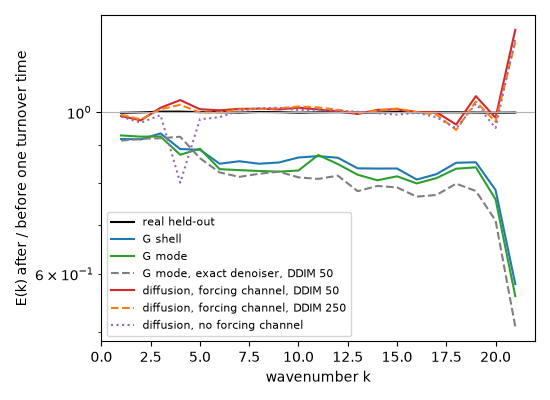
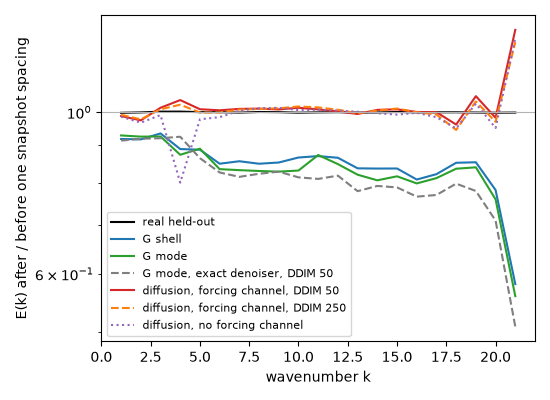
Report the spin-up energy and the span of the dt check

Changed region(s): [[0.0309, 0.09, 0.0618, 0.81]]

diff --git a/scripts/report.py b/scripts/report.py
@@ -82,7 +82,14 @@ def solver_table(info: dict) -> str:
         ],
         [
             "energy, first and second half",
-            f"{g(s['first_half_mean'])}, {g(s['second_half_mean'])}",
+            f"{g(s['first_half_mean'])}, {g(s['second_half_mean'])} "
+            f"(relative difference {g(s['relative_drift'])})",
+        ],
+        [
+            "energy of the 20-unit windows before the snapshots, over the mean",
+            ", ".join(
+                g(w / s["energy_mean"]) for w in s["spin_up_energy_by_20_time_units"]
+            ),
         ],
         [
             "forced-mode coherence of the data",
@@ -100,7 +107,7 @@ def solver_table(info: dict) -> str:
         ts = checks["time_step"]
         rows.append(
             [
-                "dt against dt / 2 after one turnover time",
+                f"dt against dt / 2 after {g(ts['evolution_time'])} time units",
                 f"relative L2 {g(ts['max_relative_l2_difference'])}, "
                 f"E(k) {g(ts['max_relative_difference_of_E_k'])}",
             ]
@@ -389,9 +396,9 @@ def networks_table() -> str | None:
         "S4 mean abs log ratio",
         "flatness S4 / S2^2 at r = 1",
         "forced-mode coherence",
-        "E(k) change after one turnover time",
-        "enstrophy change after one turnover time",
-        "energy change after one turnover time",
+        "E(k) change after one snapshot spacing",
+        "enstrophy change after one snapshot spacing",
+        "energy change after one snapshot spacing",
         "reconstruction L2, 1% of the points",
         "reconstruction L2, 2% of the points",
         "reconstruction L2, 5% of the points",

diff --git a/tests/test_report.py b/tests/test_report.py
@@ -133,3 +133,34 @@ def test_relaxation_score_over_shells_1_to_20_keeps_the_ranking(report):
     gaussians = (score["g_shell"], score["g_mode"], score["g_mode_ddim"])
     assert max(networks) < min(gaussians)
     assert score["diffusion"] < score["diffusion_plain"]
+
+
+def solver_info():
+    return json.loads((ROOT / "results" / "solver.json").read_text())
+
+
+def test_spin_up_windows_are_reported_against_the_snapshot_mean(report):
+    s = solver_info()["stationarity"]
+    ratio = [w / s["energy_mean"] for w in s["spin_up_energy_by_20_time_units"]]
+    assert len(ratio) == 6
+    assert all(0.03 < 1 - r < 0.04 for r in ratio[:2])
+    assert all(0.03 < r - 1 < 0.06 for r in ratio[4:])
+    assert "| 0.965, 0.962, 0.994, 1.01, 1.05, 1.04 |" in report.solver_table(
+        solver_info()
+    )
+
+
+def test_time_step_check_names_its_own_time_span(report):
+    info = solver_info()
+    row = next(
+        line
+        for line in report.solver_table(info).splitlines()
+        if line.startswith("| dt against")
+    )
+    assert row.startswith("| dt against dt / 2 after 0.505 time units |")
+    spans = (
+        info["turnover"]["eddy_turnover_time"],
+        info["turnover"]["snapshot_time"],
+        info["checks"]["time_step"]["evolution_time"],
+    )
+    assert len({round(span, 3) for span in spans}) == 3

diff --git a/scripts/figures.py b/scripts/figures.py
@@ -150,7 +150,7 @@ def consistency_figure(cons):
         ax.semilogy(k, ratio[:KMAX], color=color, ls=ls, label=label)
     ax.axhline(1.0, color="0.7", lw=0.8)
     ax.set_xlabel("wavenumber k")
-    ax.set_ylabel("E(k) after / before one turnover time")
+    ax.set_ylabel("E(k) after / before one snapshot spacing")
     ax.legend(fontsize=8)
     fig.tight_layout()
     fig.savefig(RESULTS / "consistency.png", dpi=100)

diff --git a/README.md b/README.md
@@ -25,9 +25,9 @@ spectrum of the training set. A second experiment reconstructs a field from its 
   only for the level used.
 - **Where it does not, the diffusion model is closer to the real fields.** The flatness of
   vorticity increments at the smallest separation is 4.1 for both networks, 4.46 for held-out
-  fields and 3.0 to 3.1 for the Gaussian fields. After one eddy turnover time in the solver the
-  spectrum of the Gaussian fields changes by 0.17 to 0.22 (mean abs log ratio) against 0.026 and
-  0.036 for the networks and 0.001 for real fields (over shells 1 to 20: 0.15 to 0.20 against
+  fields and 3.0 to 3.1 for the Gaussian fields. After one snapshot spacing (0.495) in the solver
+  the spectrum of the Gaussian fields changes by 0.17 to 0.22 (mean abs log ratio) against 0.026
+  and 0.036 for the networks and 0.001 for real fields (over shells 1 to 20: 0.15 to 0.20 against
   0.0145 and 0.0263). On the validation fields, which also select the checkpoint, the network
   predicts the noise with an error of 0.071 and the exact Gaussian denoiser with 0.120 (the
   noise error on the test fields was not computed).
@@ -50,12 +50,12 @@ Every table below is printed by `scripts/report.py` from the files in `results/`
 `scripts/figures.py` draws the figures from the same files. The numbers in the text are read
 from these tables and figures (the ratios of spectra from `results/diagnostics.json`). The
 reference set (held-out, or test) is 500 fields from two solver trajectories that were not used
-for training. A third trajectory (validation, 250 fields) selects the checkpoint, the DDIM start
-and the replacement variant. The diagnostics use 500 generated fields per row and one sampler
-seed, the reconstruction uses 100 test fields and three sampler seeds. "Forcing channel" is the
-network with the extra input channel and "no forcing channel" the one without; both have 3.57
-million parameters and were trained with the same settings. Rows and tables of the channel
-network are its seed 0 unless a column says seed 1.
+for training. A third trajectory (validation, 250 fields) selects the checkpoint and the
+replacement variant and is the set on which the DDIM starts are compared. The diagnostics use
+500 generated fields per row and one sampler seed, the reconstruction uses 100 test fields and
+three sampler seeds. "Forcing channel" is the network with the extra input channel and "no
+forcing channel" the one without; both have 3.57 million parameters and were trained with the
+same settings. Rows and tables of the channel network are its seed 0 unless a column says seed 1.
 
 ### The solver and its data
 
@@ -69,17 +69,26 @@ network are its seed 0 unless a column says seed 1.
 | eddy turnover time | 0.497 |
 | snapshot spacing | 0.495 (99 steps) |
 | mean energy | 0.154 (std 0.0203) |
-| energy, first and second half | 0.154, 0.154 |
+| energy, first and second half | 0.154, 0.154 (relative difference 0.00282) |
+| energy of the 20-unit windows before the snapshots, over the mean | 0.965, 0.962, 0.994, 1.01, 1.05, 1.04 |
 | forced-mode coherence of the data | 0.967 |
 | correlation of snapshots, lag 1 and 5 | 0.94, 0.551 |
-| dt against dt / 2 after one turnover time | relative L2 1.12e-08, E(k) 5.22e-08 |
+| dt against dt / 2 after 0.505 time units | relative L2 1.12e-08, E(k) 5.22e-08 |
 | E(k) of the data over E(k) of a 128 x 128 run | k=5: 1, k=10: 1.1, k=14: 1.2, k=18: 1.4, k=21: 3.7 |
 
-The time step is small enough (a half step changes the fields after one turnover time by
-1e-8). The 64 x 64 grid is coarse: against a run on 128 x 128 points the mean spectrum of the
-data is within 20 percent at k = 5, 10 and 14 but 1.4 times larger at k = 18 and 3.7 times
-larger at k = 21, so the highest shells of the data are not converged. Consecutive snapshots
-are strongly correlated.
+The time step is small enough (a half step changes the fields after 0.505 time units, one over
+the rms vorticity of the training set, by 1e-8). The 64 x 64 grid is coarse: against a run on
+128 x 128 points the mean spectrum of the data is within 20 percent at k = 5, 10 and 14 but 1.4
+times larger at k = 18 and 3.7 times larger at k = 21, so the highest shells of the data are not
+converged. Consecutive snapshots are strongly correlated.
+
+The energy of the last two 20-unit windows before the snapshots (the last one is the window
+where the turnover time is measured) is about 5 and 4 percent above the mean energy of the
+snapshots, and that of the first two windows about 3.5 and 3.8 percent below it. The windows
+average all seven trajectories and the snapshot mean the four training ones, and the spread of a
+window mean was not computed. A slow change of the energy during the 100 time units of spin-up
+is therefore neither shown nor excluded; the two halves of the snapshot window, which differ by
+0.3 percent, do not test it.
 
 ### Spectrum
 
@@ -160,7 +169,7 @@ attractor of the solver keeps its spectrum.
 | diffusion, forcing channel | 0.0226 | 0.00978 | 0.0364 | 0.0262 | 0.0145 | 1.3 | 0.0183 | 0.00607 |
 | diffusion, no forcing channel | 0.0699 | 0.0125 | 0.0368 | 0.0362 | 0.0263 | 1.26 | -0.1 | -0.0828 |
 
-![Change of the spectrum after one turnover time](results/consistency.png)
+![Change of the spectrum after one snapshot spacing](results/consistency.png)
 
 The Gaussian fields leave the attractor at once: the spectrum changes by 0.17 to 0.22 and 9 to
 12 percent of the energy and enstrophy are lost. The networks keep the shape of the spectrum much
@@ -304,9 +313,9 @@ it once). The table sets the three runs side by side with the same samples and m
 | S4 mean abs log ratio | 0.64 | 0.662 | 0.679 |
 | flatness S4 / S2^2 at r = 1 | 4.1 | 4.1 | 4.11 |
 | forced-mode coherence | 0.0393 | 0.974 | 0.971 |
-| E(k) change after one turnover time | 0.0362 | 0.0262 | 0.0274 |
-| enstrophy change after one turnover time | -0.1 | 0.0183 | 0.0187 |
-| energy change after one turnover time | -0.0828 | 0.00607 | 0.00579 |
+| E(k) change after one snapshot spacing | 0.0362 | 0.0262 | 0.0274 |
+| enstrophy change after one snapshot spacing | -0.1 | 0.0183 | 0.0187 |
+| energy change after one snapshot spacing | -0.0828 | 0.00607 | 0.00579 |
 | reconstruction L2, 1% of the points | 1.24 | 1.12 | 1.12 |
 | reconstruction L2, 2% of the points | 1.19 | 1.07 | 1.07 |
 | reconstruction L2, 5% of the points | 1.02 | 0.913 | 0.923 |
@@ -420,9 +429,9 @@ units, the turnover time rounded to whole steps).
 
 **Data.** Seeds 0 to 3 give the four training trajectories (500 snapshots each, 2000
 fields), seeds 100 and 101 the two held-out test trajectories (250 snapshots each, 500
-fields), seed 200 a validation trajectory (250 fields) that selects the checkpoint, the DDIM
-start and the replacement variant. Fields are divided by the standard deviation of the
-training set (1.98).
+fields), seed 200 a validation trajectory (250 fields) that selects the checkpoint and the
+replacement variant and is the set on which the DDIM starts are compared. Fields are divided by
+the standard deviation of the training set (1.98).
 
 **Gaussian random field G.** "G mode" draws fields with the mean power of every Fourier mode
 of the training set, "G shell" with that power averaged over the shells of constant round(|k|).
@@ -464,8 +473,9 @@ field to the closest of the 2000 training fields, as it is (plain) and with the 
 symmetries of the flow (shifted).
 
 **Solver consistency.** Each set of fields is evolved by the solver for one snapshot spacing
-(0.495) and the mean spectrum before and after is compared in the same way. Real fields stay
-on the attractor of the solver and change little; fields that are off it relax.
+(0.495) and the mean spectrum before and after is compared in the same way. Real fields change
+little over one snapshot spacing (see the consistency table); fields that are off the attractor
+of the solver relax.
 
 **Reconstruction.** The observed grid points are chosen at random (100 test fields, three
 seeds that fix both the points and the sampler noise). Kriging is the Gaussian conditioning
@@ -484,6 +494,9 @@ then over the three seeds (with their standard deviation).
   Nothing here says anything about three-dimensional turbulence or about other flows.
 - The solver data are not converged at the highest shells (see the solver table), so "the right
   statistics" means the statistics of this solver's output on this grid.
+- The 100 time units of spin-up were not shown to be long enough: the last two 20-unit windows
+  before the snapshots hold about 5 and 4 percent more energy than the snapshots (solver table),
+  and no longer spin-up was run.
 - The training set is 2000 fields from four trajectories whose neighbouring snapshots are strongly
   correlated, and the reference is 500 fields from two other trajectories. The network without the
   channel was trained once (seed 0) and the one with it twice (seeds 0 and 1); the diagnostics use
